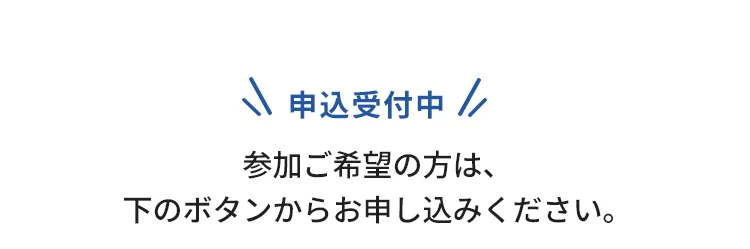
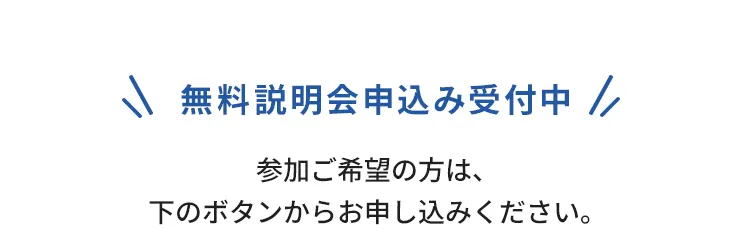
change

diff --git a/index.html b/index.html
@@ -4,14 +4,14 @@
 		<meta charset="UTF-8">
 		<meta http-equiv="X-UA-Compatible" content="IE=edge">
 		<meta name="viewport" content="width=device-width, initial-scale=1, minimum-scale=1, maximum-scale=1, user-scalable=no" />
-		<title>R6年診療報酬改定に対応！「デンタルフィットネス導入コンサルティング無料説明会」</title>
-		<meta name="description" content="「デンタルフィットネスはどのように組み込んでいくの」と、毎回好評の“無料”セミナーです。デンタルフィットネス導入コンサルティングがどのように行われるかをご説明します。">
+		<title>もう導入に迷わない！「デンタルフィットネス導入コンサルティング無料説明会」</title>
+		<meta name="description" content="「予防歯科経営を導入したいけど」などの悩みが解決できる、いつもとは異なる“無料”説明会です。デンタルフィットネス導入コンサルティングがどのように行われるかをご説明します。">
 		<meta name="keywords" content="">
 		<meta name="format-detection" content="telephone=no" />
 		<meta name="theme-color" content="#FFFFFF">
-		<meta property="og:title" content="R6年診療報酬改定に対応！「デンタルフィットネス導入コンサルティング無料説明会」" />
+		<meta property="og:title" content="もう導入に迷わない！「デンタルフィットネス導入コンサルティング無料説明会」" />
 		<meta property="og:type" content="website" /><!--TOP:website blog 下層：article-->
-		<meta property="og:description" content="「デンタルフィットネスはどのように組み込んでいくの」と、毎回好評の“無料”セミナーです。デンタルフィットネス導入コンサルティングがどのように行われるかをご説明します。" />
+		<meta property="og:description" content="「予防歯科経営を導入したいけど」などの悩みが解決できる、いつもとは異なる“無料”説明会です。デンタルフィットネス導入コンサルティングがどのように行われるかをご説明します。" />
 		<meta property="og:url" content="https://dental-fitness.co.jp/lp/seminar202505_1" />
 		<meta property="og:site_name" content="R6年診療報酬改定に対応！「デンタルフィットネス導入コンサルティング無料説明会」" />
 		<meta property="og:image" content="https://dental-fitness.co.jp/lp/seminar202505_1/common/img/dentalfitness-2025-05-kv-pc.jpg" />
@@ -144,7 +144,7 @@
 						<div class="pic23">
 							<div class="pic"><img src="common/img/23_about-df-movie.webp"></div>
 							<div class="movie">
-								<iframe width="560" height="315" src="https://www.youtube.com/embed/UqmDfZe_-60?si=sWQWUtDJcVwMmFS8" title="YouTube video player" frameborder="0" allow="accelerometer; autoplay; clipboard-write; encrypted-media; gyroscope; picture-in-picture; web-share" referrerpolicy="strict-origin-when-cross-origin" allowfullscreen></iframe>
+								<iframe width="560" height="315" src="https://www.youtube.com/embed/8D7zwKfyEpQ?si=Q1YUEDPfFf-J1_OG" title="YouTube video player" frameborder="0" allow="accelerometer; autoplay; clipboard-write; encrypted-media; gyroscope; picture-in-picture; web-share" referrerpolicy="strict-origin-when-cross-origin" allowfullscreen></iframe>
 							</div>
 						</div>
 						<div class="pic24">
@@ -162,7 +162,7 @@
 						<div class="pic28">
 							<div class="pic"><img src="common/img/28_special-seminer.webp"></div>
 							<div class="movie">
-								<iframe width="560" height="315" src="https://www.youtube.com/embed/UqmDfZe_-60?si=sWQWUtDJcVwMmFS8" title="YouTube video player" frameborder="0" allow="accelerometer; autoplay; clipboard-write; encrypted-media; gyroscope; picture-in-picture; web-share" referrerpolicy="strict-origin-when-cross-origin" allowfullscreen></iframe>
+								<iframe width="560" height="315" src="https://www.youtube.com/embed/8D7zwKfyEpQ?si=Q1YUEDPfFf-J1_OG" title="YouTube video player" frameborder="0" allow="accelerometer; autoplay; clipboard-write; encrypted-media; gyroscope; picture-in-picture; web-share" referrerpolicy="strict-origin-when-cross-origin" allowfullscreen></iframe>
 							</div>
 						</div>
 						<div class="pic29">

diff --git a/common/js/top.js b/common/js/top.js
@@ -87,24 +87,6 @@ $(function(){
 			default:
 				url = 'https://dental-fitness.jp/p/r/zjJpfgSE?ref=hp'; // デフォルトのURLを設定します
 				break;
-			// case 'fb':
-			// 	url = 'https://dental-fitness.jp/p/r/ta0GbQgT?ref=di';
-			// 	break;
-			// case 'rl':
-			// 	url = 'https://dental-fitness.jp/p/r/ta0GbQgT?ref=mlp';
-			// 	break;
-			// case 'ptr':
-			// 	url = 'https://dental-fitness.jp/p/r/ta0GbQgT?ref=re';
-			// 	break;
-			// case 'soe':
-			// 	url = 'https://dental-fitness.jp/p/r/Az0nsEal';
-			// 	break;
-			// case 'sh':
-			// 	url = 'https://dental-fitness.jp/p/r/diiWZDOo';
-			// 	break;
-			// default:
-			// 	url = 'https://dental-fitness.jp/p/r/ta0GbQgT?ref=we'; // デフォルトのURLを設定します
-			// 	break;
 	}
 
 	$('.paramLink').attr('href', url);
